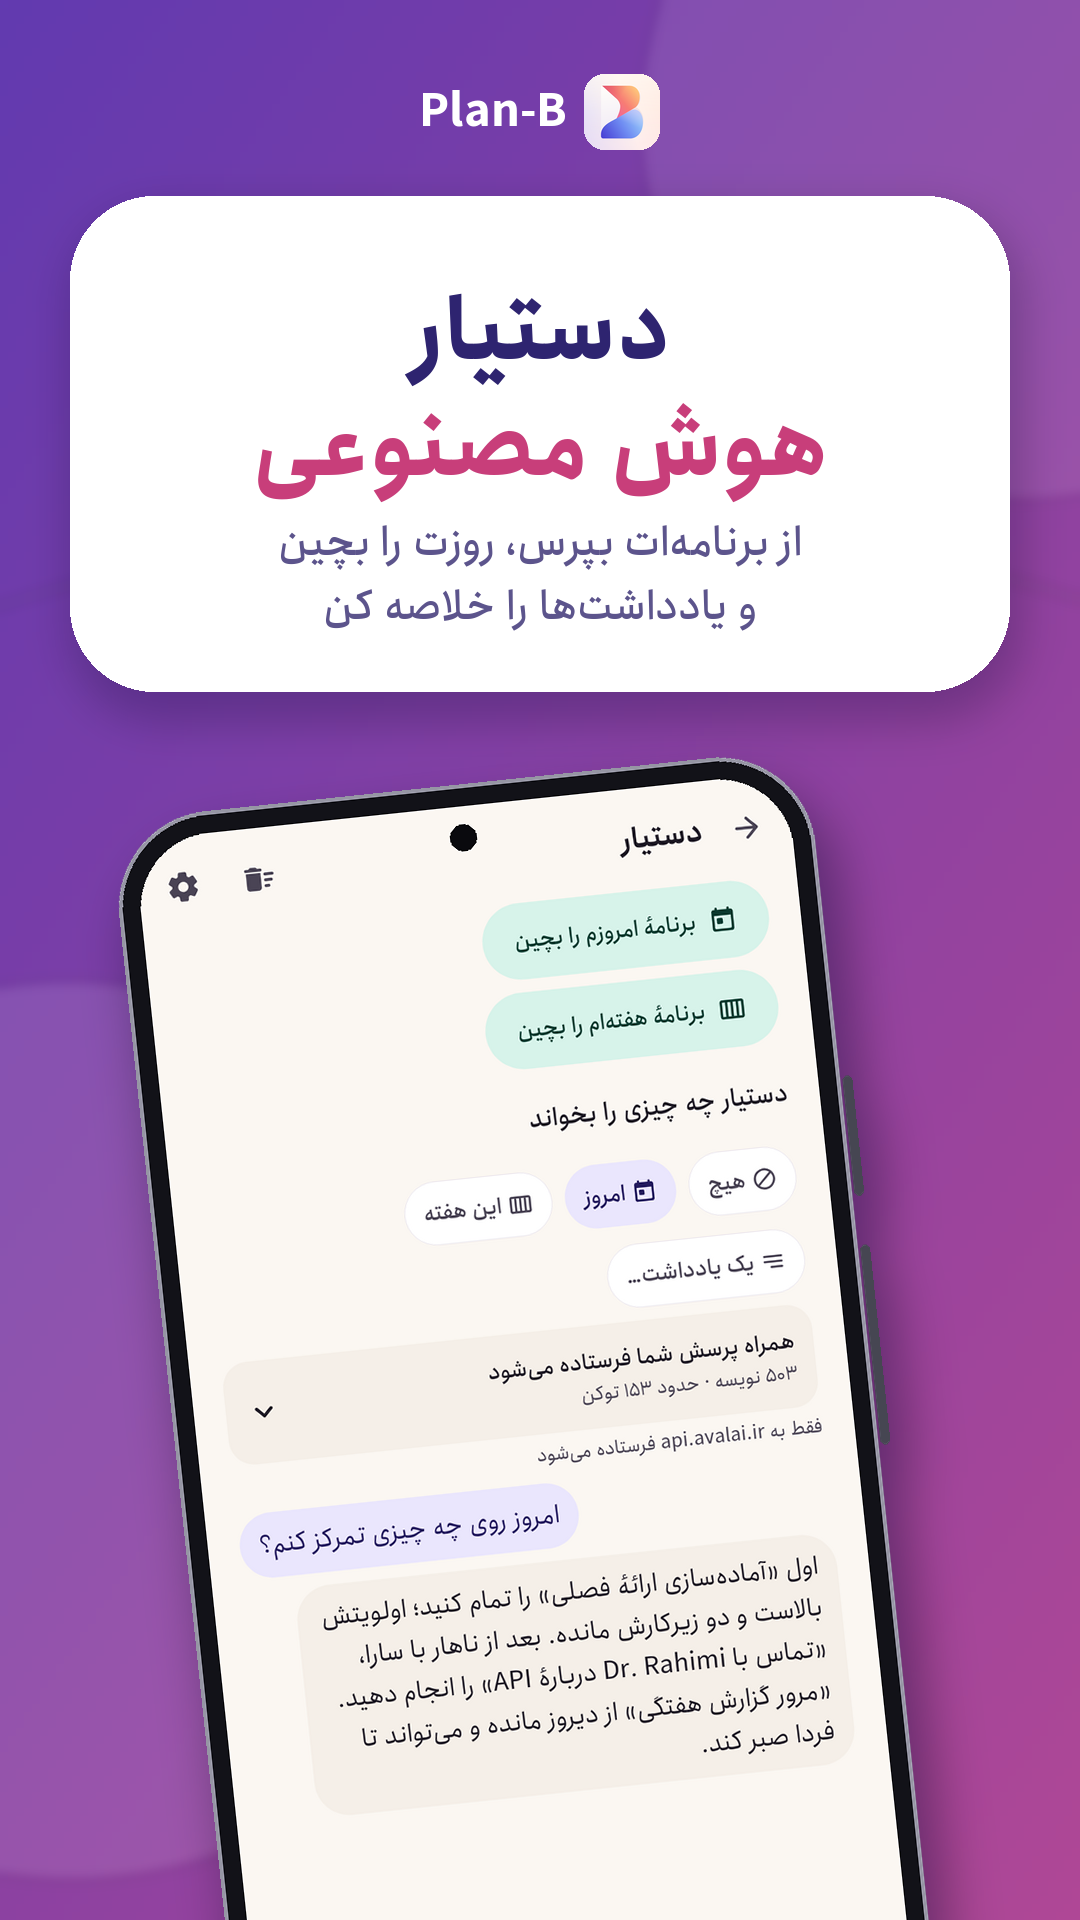
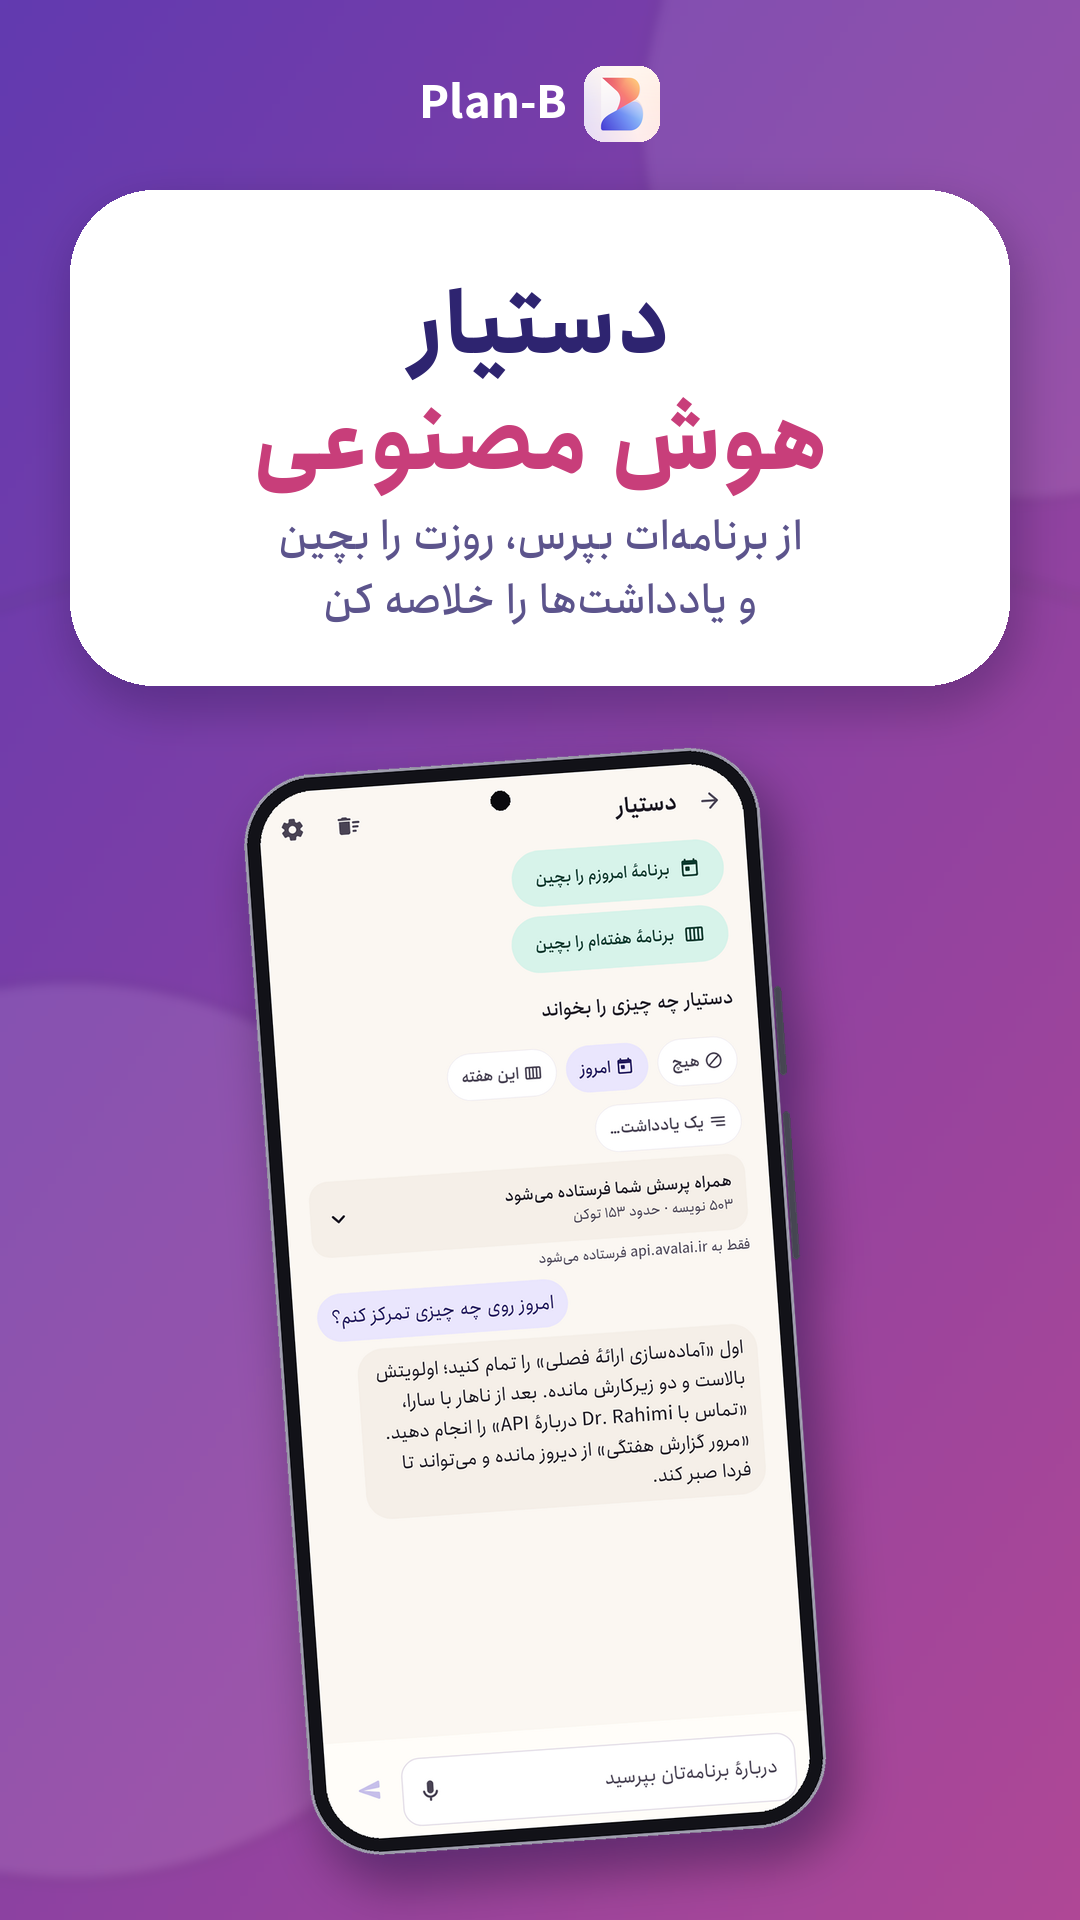
store: promotional screenshots show the whole phone
Claude-Session: https://claude.ai/code/session_016n6ukQ8XMjXXvU6T5eNS5b

diff --git a/tools/generate_store_promo.py b/tools/generate_store_promo.py
@@ -34,14 +34,14 @@ THEMES = [
 # (folder, screen, first headline line, highlighted second line, subtitle, tilt in degrees)
 SLIDES = [
     ("today", "today", "همهٔ روزت", "در یک نگاه", "کارها، رویدادها، عادتها و تمرکز در صفحهٔ امروز", 0),
-    ("capture", "quick_capture_smart", "فارسی بنویس،", "خودش میفهمد", "«فردا ساعت ۵ عصر جلسه» خودش کاری با تاریخ و ساعت میشود", -6),
-    ("calendar", "calendar_holidays_month", "تقویم شمسی", "با تعطیلات رسمی", "تاریخ قمری، مناسبتها و همگامسازی با تقویم گوشی", 6),
+    ("capture", "quick_capture_smart", "فارسی بنویس،", "خودش میفهمد", "«فردا ساعت ۵ عصر جلسه» خودش کاری با تاریخ و ساعت میشود", -4),
+    ("calendar", "calendar_holidays_month", "تقویم شمسی", "با تعطیلات رسمی", "تاریخ قمری، مناسبتها و همگامسازی با تقویم گوشی", 4),
     ("calendar", "calendar_time_blocking", "روزت را", "ساعتبهساعت بچین", "بلوکبندی زمان با کشیدن و رها کردن و چیدن خودکار روز", 0),
-    ("notebooks", "note_rich", "یادداشتی", "فراتر از متن", "عکس، جدول، طراحی، اسکن و صدا در یک یادداشت", -6),
-    ("assistant", "assistant_chat", "دستیار", "هوش مصنوعی", "از برنامهات بپرس، روزت را بچین و یادداشتها را خلاصه کن", 6),
+    ("notebooks", "note_rich", "یادداشتی", "فراتر از متن", "عکس، جدول، طراحی، اسکن و صدا در یک یادداشت", -4),
+    ("assistant", "assistant_chat", "دستیار", "هوش مصنوعی", "از برنامهات بپرس، روزت را بچین و یادداشتها را خلاصه کن", 4),
     ("focus", "focus_pro_running", "تمرکز عمیق،", "بدون مزاحمت", "صداهای محیطی آرام و حالت «مزاحم نشوید» در جلسهٔ تمرکز", 0),
-    ("habits", "habit_stats", "عادتهای", "ماندگار بساز", "زنجیرهٔ روزها، آمار سالانه، چالشها و نشانها", -6),
-    ("notebooks", "journal", "دفتر روزانه", "و تقویم حال", "هر روز بنویس و حالت را ببین؛ همه چیز فقط روی گوشی خودت", 6),
+    ("habits", "habit_stats", "عادتهای", "ماندگار بساز", "زنجیرهٔ روزها، آمار سالانه، چالشها و نشانها", -4),
+    ("notebooks", "journal", "دفتر روزانه", "و تقویم حال", "هر روز بنویس و حالت را ببین؛ همه چیز فقط روی گوشی خودت", 4),
 ]
 
 
@@ -126,26 +126,30 @@ def phone(path, width):
 
 def slide(index, folder, screen, line1, line2, subtitle, tilt):
     img = background(index % len(THEMES))
+    card_top = 190
+    c = card(line1, line2, subtitle)
 
+    # The whole phone (including its rounded bottom) fits between the card and the bottom edge.
     device = phone(os.path.join(SHOTS, folder, f"{screen}_fa_light.png"), 700)
     device = device.rotate(tilt, resample=Image.BICUBIC, expand=True)
+    top, bottom = card_top + c.height + 56, H - 60
+    scale = min((bottom - top) / device.height, 900 / device.width)
+    device = device.resize((int(device.width * scale), int(device.height * scale)), Image.LANCZOS)
     x = (W - device.width) // 2
-    y = 760 - int(abs(math.sin(math.radians(tilt))) * 140)
-    shadow = Image.new("RGBA", (W, H), (0, 0, 0, 0))
+    y = top + (bottom - top - device.height) // 2
     alpha = device.split()[3].point(lambda a: int(a * 0.45))
     shadow_layer = Image.new("RGBA", device.size, (20, 10, 60, 255))
     shadow_layer.putalpha(alpha)
-    shadow.alpha_composite(shadow_layer, (x + 18, y + 34))
-    img.alpha_composite(shadow.filter(ImageFilter.GaussianBlur(26)))
+    shadow = Image.new("RGBA", (W, H), (0, 0, 0, 0))
+    shadow.alpha_composite(shadow_layer, (x + 16, y + 28))
+    img.alpha_composite(shadow.filter(ImageFilter.GaussianBlur(24)))
     img.alpha_composite(device, (x, y))
 
-    # The card sits over the top of the phone.
-    c = card(line1, line2, subtitle)
     card_shadow = Image.new("RGBA", (W, H), (0, 0, 0, 0))
     ImageDraw.Draw(card_shadow).rounded_rectangle(
-        ((W - c.width) // 2 + 6, 214, (W + c.width) // 2 + 6, 200 + c.height + 20), 84, fill=(20, 10, 60, 70))
+        ((W - c.width) // 2 + 6, card_top + 18, (W + c.width) // 2 + 6, card_top + c.height + 20), 84, fill=(20, 10, 60, 70))
     img.alpha_composite(card_shadow.filter(ImageFilter.GaussianBlur(22)))
-    img.alpha_composite(c, ((W - c.width) // 2, 196))
+    img.alpha_composite(c, ((W - c.width) // 2, card_top))
 
     # Brand mark above the card.
     icon = Image.open(os.path.join(GRAPHICS, "icon-512.png")).convert("RGBA").resize((76, 76), Image.LANCZOS)
@@ -155,10 +159,9 @@ def slide(index, folder, screen, line1, line2, subtitle, tilt):
     d = ImageDraw.Draw(img)
     label = font("bold", 46)
     text_w = label.getlength("Plan-B")
-    total = icon.width + 18 + text_w
-    left = (W - total) / 2
-    img.alpha_composite(icon, (int(left + text_w + 18), 74))
-    d.text((left, 112), "Plan-B", font=label, fill="white", anchor="lm")
+    left = (W - (icon.width + 18 + text_w)) / 2
+    img.alpha_composite(icon, (int(left + text_w + 18), 66))
+    d.text((left, 104), "Plan-B", font=label, fill="white", anchor="lm")
 
     name = f"{index + 1:02d}_{screen}.png"
     img.convert("RGB").save(os.path.join(OUT, name), optimize=True)
